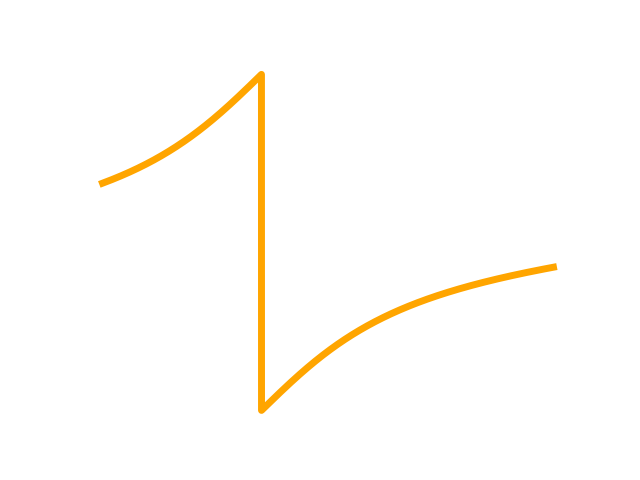
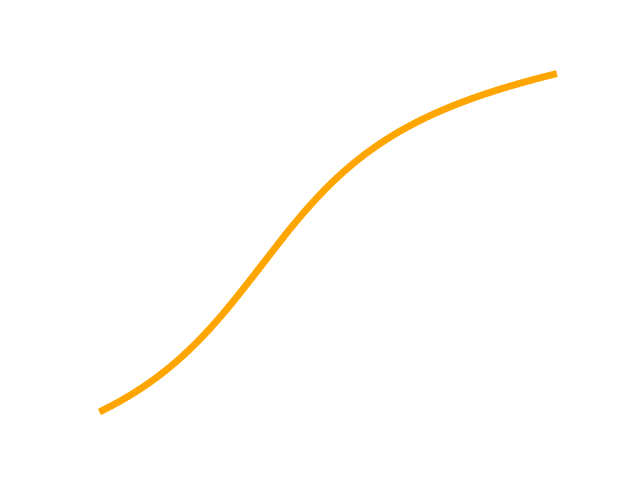
phase correction & enhancements
- handle user interactions with the 'a'
- finally, calculated the all-pass phase correctly

diff --git a/Filter/filterDesignBackend.py b/Filter/filterDesignBackend.py
@@ -300,6 +300,21 @@ class Backend:
             self.poles_conjugates.clear()
             self.zeros_conjugates.clear()
 
+    # EXPORT THE DESIGNED FILTER
+    def export_filter(self):
+        fileName, _ = QFileDialog.getSaveFileName(
+            None, "Save File", "", "CSV Files (*.csv)"
+        )
+        if fileName:
+            with open(fileName, "w", newline="") as file:
+                writer = csv.writer(file)
+                writer.writerow([None, "x", "y"])  # Write the column titles
+                for zero in self.zeros_positions:
+                    writer.writerow(["zero", zero.x(), zero.y()])
+                writer.writerow([])
+                for pole in self.poles_positions:
+                    writer.writerow(["pole", pole.x(), pole.y()])
+
     # PLOT MAGNITUDE AND PHASE RESPONSES
     def update_responses(self):
         # Get poles and zeros positions
@@ -355,27 +370,6 @@ class Backend:
             except Exception as e:
                 print(f"Error loading the file: {e}")
 
-    def export(self):
-        fileName, _ = QFileDialog.getSaveFileName(
-            None, "Save File", "", "CSV Files (*.csv)"
-        )
-        if fileName:
-            np.savetxt(fileName, self.filtered_data, delimiter=",")
-
-    def export_filter(self):
-        fileName, _ = QFileDialog.getSaveFileName(
-            None, "Save File", "", "CSV Files (*.csv)"
-        )
-        if fileName:
-            with open(fileName, "w", newline="") as file:
-                writer = csv.writer(file)
-                writer.writerow([None, "x", "y"])  # Write the column titles
-                for zero in self.zeros_positions:
-                    writer.writerow(["zero", zero.x(), zero.y()])
-                writer.writerow([])
-                for pole in self.poles_positions:
-                    writer.writerow(["pole", pole.x(), pole.y()])
-
     def update_real_time_plots(self):
         self.update_plot(self.ui.originalApplicationSignal, self.original_data)
         self.update_plot(self.ui.filteredSignal, self.filtered_data)
@@ -405,6 +399,8 @@ class Backend:
     def update_speed(self):
         points_value = self.ui.speed_slider.value()
         self.ui.speed_label.setText(f"Points: {points_value}")
+        # self.update_interval = max(1, 60 - points_value)
+        # self.plotting_timer.setInterval(self.update_interval)
 
     def pause_play_action(self, checked):
         if checked:
@@ -422,6 +418,13 @@ class Backend:
         self.plotting_timer.start(self.update_interval)
         if self.ui.pause_play_button.isChecked():
             self.ui.pause_play_button.setChecked(False)
+
+    def export(self):
+        fileName, _ = QFileDialog.getSaveFileName(
+            None, "Save File", "", "CSV Files (*.csv)"
+        )
+        if fileName:
+            np.savetxt(fileName, self.filtered_data, delimiter=",")
 
     # ORGANIZING ALL-PASS lIBRARY
     def organize_library(self, scrollAreaLayout, filtersList):
@@ -448,8 +451,7 @@ class Backend:
         # Get the value entered in the text field
         value = self.ui.allPassEnteredValue.text()
 
-        # Check first if the filter doesn't already exist to avoid redundancy of same filter
-        if value not in self.user_inputs_values:
+        if not self.validate_a_value():
             self.user_inputs_values.append(value)
 
             # Plot the phase response of the all-pass filter
@@ -480,6 +482,37 @@ class Backend:
             # Increment the index in case the user adds another custom filter
             self.idx += 1
 
+    def validate_a_value(self):
+        value = self.ui.allPassEnteredValue.text()
+
+        if value in self.user_inputs_values:
+            self.ui.allPassEnteredValue.setStyleSheet("border: 1px solid red;")
+            self.show_error(self.ui.value_error, "Filter already exists")
+            return True
+        elif value == "1":
+            self.ui.allPassEnteredValue.setStyleSheet("border: 1px solid red;")
+            self.show_error(self.ui.value_error, "'a' can't be 1")
+            return True
+        else:
+            for filter in self.all_pass_filters:
+                if complex(value) == complex(filter.allPassValue):
+                    self.ui.allPassEnteredValue.setStyleSheet("border: 1px solid red;")
+                    self.show_error(self.ui.value_error, "Filter already exists")
+                    return True
+
+        # If no duplicate is found, clear the error message and reset the border
+        self.ui.allPassEnteredValue.setStyleSheet("")
+        self.hide_error(self.ui.value_error)
+        return False
+
+    def show_error(self, error_label, message):
+        error_label.setText(f'<font color="red">{message}</font>')
+        error_label.setVisible(True)
+
+    def hide_error(self, error_label):
+        error_label.clear()
+        error_label.setVisible(False)
+
     def plot_all_pass_single_filter(self, value):
         a_complex = complex(value)
         all_pass_zeros = []
@@ -498,7 +531,7 @@ class Backend:
         plt.figure()
         plt.plot(
             all_pass_frequencies_values,
-            np.angle(all_pass_response_complex),
+            np.unwrap(np.angle(all_pass_response_complex)),
             color="orange",
             linewidth=5,
         )

diff --git a/Filter/filterDesignUI.py b/Filter/filterDesignUI.py
@@ -14,6 +14,8 @@ from customPlotWidget_Mouse import CustomPlotWidget
 from filterDesignBackend import Backend
 from libraryButton import ProcessButton
 from PyQt5 import QtCore, QtGui, QtWidgets
+from PyQt5.QtCore import QRegExp
+from PyQt5.QtGui import QValidator
 from pyqtgraph import PlotWidget
 
 import icons as icons
@@ -185,14 +187,23 @@ class Ui_FilterDesigner(object):
         self.inputALabel.setObjectName("inputALabel")
         self.horizontalLayout.addWidget(self.inputALabel)
         self.allPassEnteredValue = QtWidgets.QLineEdit(self.allPassDesignGroupBox)
+        self.allPassEnteredValue.setPlaceholderText("Enter a value")
+        self.validator = CustomValidator()
+        self.allPassEnteredValue.setValidator(self.validator)
         self.allPassEnteredValue.setObjectName("textField")
         self.horizontalLayout.addWidget(self.allPassEnteredValue)
         self.verticalLayout_4.addLayout(self.horizontalLayout)
         self.addAllPassFilter = QtWidgets.QPushButton(self.allPassDesignGroupBox)
         self.addAllPassFilter.setObjectName("pushButton")
+
+        self.value_error = QtWidgets.QLabel()
+        self.verticalLayout_4.addWidget(self.value_error)
+        self.value_error.setVisible(False)
+
         self.verticalLayout_4.addWidget(self.addAllPassFilter)
         self.verticalLayout_8.addWidget(self.allPassDesignGroupBox)
         # self.dockWidgetContents_3
+
         self.allPassPhaseResponse = PlotWidget(self.dockWidgetContents_3)
         self.allPassPhaseResponse.setMaximumSize(QtCore.QSize(16777215, 16777215))
         self.allPassPhaseResponse.setObjectName("allPassPhaseResponse")
@@ -561,6 +572,22 @@ class Ui_FilterDesigner(object):
             dock.close()
         else:
             dock.show()
+
+
+class CustomValidator(QValidator):
+    def __init__(self, parent=None):
+        super(CustomValidator, self).__init__(parent)
+        self.regex = QRegExp("[0-9j+-.]+")
+
+    def validate(self, input_str, pos):
+        if pos == 0 and input_str == "":
+            # Allow deleting the first character
+            return QValidator.Acceptable, input_str, pos
+
+        if self.regex.exactMatch(input_str):
+            return QValidator.Acceptable, input_str, pos
+        else:
+            return QValidator.Invalid, input_str, pos
 
 
 if __name__ == "__main__":

diff --git a/All-Pass-Phase-Responses/allPassExamples2.py b/All-Pass-Phase-Responses/allPassExamples2.py
@@ -26,7 +26,7 @@ for idx, a_value in enumerate(a_values):
 
     # Plot the phase response
     plt.figure()
-    plt.plot(w, np.angle(h), color="orange", linewidth=5)
+    plt.plot(w, np.unwrap(np.angle(h)), color="orange", linewidth=5)
     plt.axis("off")
     # Save the plot as a PNG file
     save_path = os.path.join(save_directory, f"phase_response_{idx}.png")
